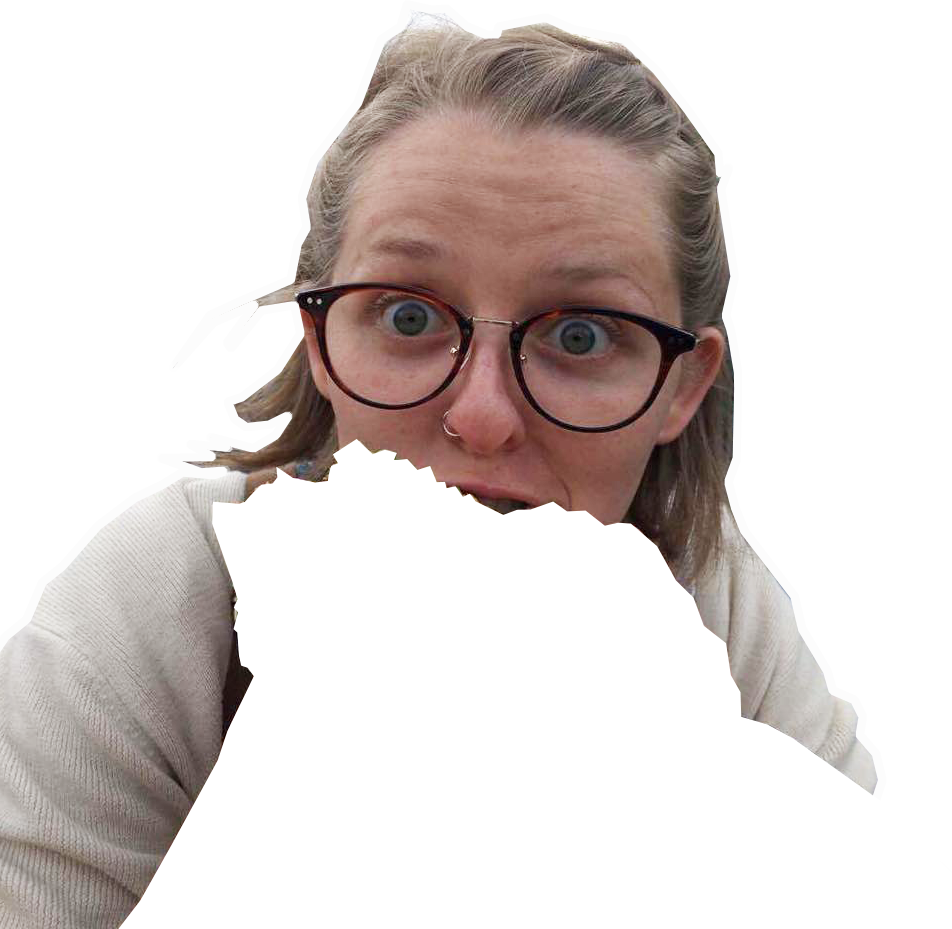
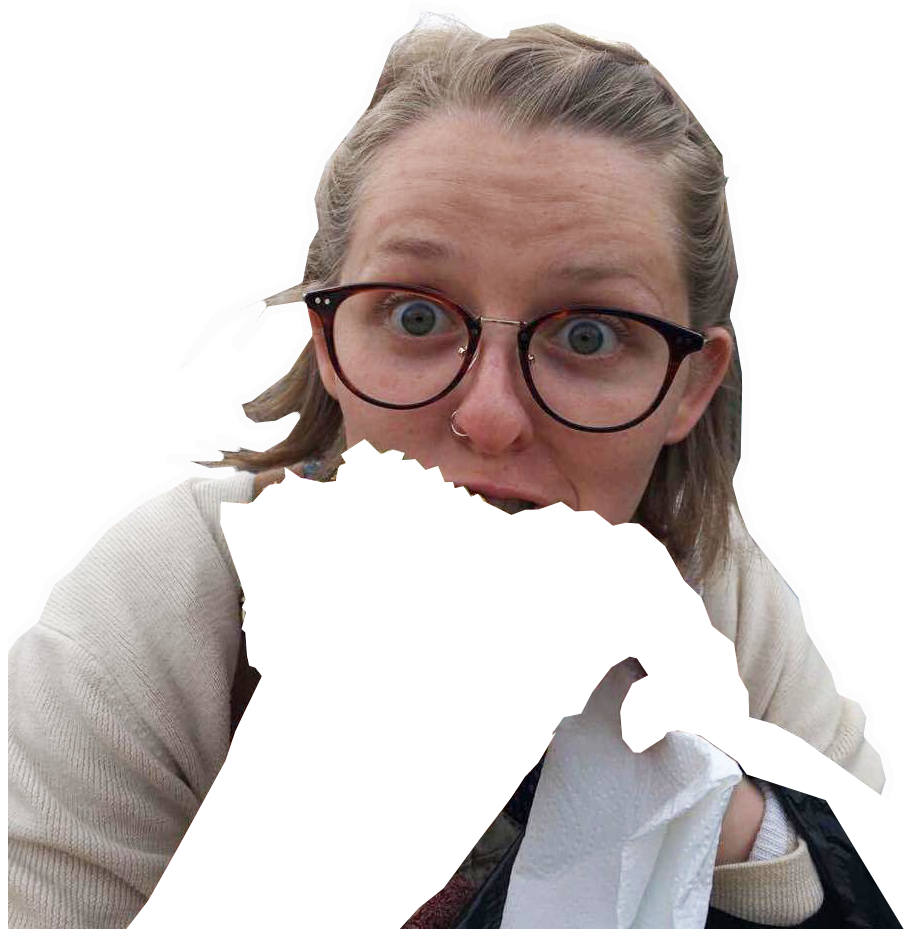
.

diff --git a/sketch.js b/sketch.js
@@ -1,8 +1,26 @@
-let foodArray = new Array(5);
 let faceImage;
+let faceWidth;
+let faceHeight;
+let faceX;
+let faceY;
 let handsImage;
-
+let handsWidth;
+let handsHeight;
+let handsX;
+let handsY;
+let ratioFace = 904 / 929; // faceWidth / faceHeight
+let ratioHand = 842 / 428; // handsWidth / handsHeight
+let ratioFaceHand = 904 / 842; //faceWidth / handsWidth
+let offsetHand = 126 / 842; // offsetHands / handsWidth
+let foodArray = new Array(5);
+let foodWidth;
+let foodHeight;
+let foodX;
+let foodY;
+let foodRatio = [408 / 312, 349 / 529, 373 / 360, 305 / 401, 224 / 656];
+let foodIndex;
 let colorArray = new Array(5);
+let isDesktop = false;
 
 function preload() {
     foodArray[0] = loadImage('img/burger.png');
@@ -12,7 +30,6 @@ function preload() {
     foodArray[4] = loadImage('img/wrap.png');
     faceImage = loadImage('img/face.png');
     handsImage = loadImage('img/hands.png');
-
     colorArray[0] = color(150,206,180);
     colorArray[1] = color(255,238,173);
     colorArray[2] = color(255,111,105);
@@ -20,12 +37,45 @@ function preload() {
     colorArray[4] = color(170,216,176);
 }
 function setup() {
+    if (windowWidth > windowHeight) isDesktop = true;
+    foodIndex = Math.floor(random(0, 5));
   	createCanvas(windowWidth, windowHeight);
-  	frameRate(30);
-    background(colorArray[0]);
-    image(foodArray[0], 0, 0);
+    frameRate(30);
+    background(colorArray[foodIndex]);
 }
 
 function draw() {
-
+    if (isDesktop) { // on desktop
+        // 1 - face
+        // height = 2/3 windowHeight
+        faceHeight = windowHeight * 2 / 3;
+        faceWidth = faceHeight * ratioFace;
+        // x axis align center
+        faceX = (windowWidth - faceWidth) / 2;
+        // y axis align bottom
+        faceY = windowHeight - faceHeight;
+        // load image
+        image(faceImage, faceX, faceY, faceWidth, faceHeight);
+        // 2 - food
+        // width = 1/2 faceWidth
+        foodWidth = faceWidth / 2;
+        foodHeight = foodWidth / foodRatio[foodIndex];
+        foodX = faceX + 1 * faceWidth / 4;
+        foodY = faceY + faceHeight / 3;
+        image (foodArray[foodIndex], foodX, foodY, foodWidth, foodHeight);
+        // 3 - hands
+        handsWidth = faceWidth / ratioFaceHand;
+        handsHeight = handsWidth / ratioHand;
+        // x axis faceX + offset
+        handsX = faceX + offsetHand * handsWidth;
+        // y axis align bottom
+        handsY = windowHeight - handsHeight;
+        // load image
+        image(handsImage, handsX, handsY, handsWidth, handsHeight);            
+    } else { // on mobile
+        // align center, bottom
+        // width = windowWidth
+        image(faceImage, 0, 0);
+        image(handsImage, 0, 0);    
+    }
 }
